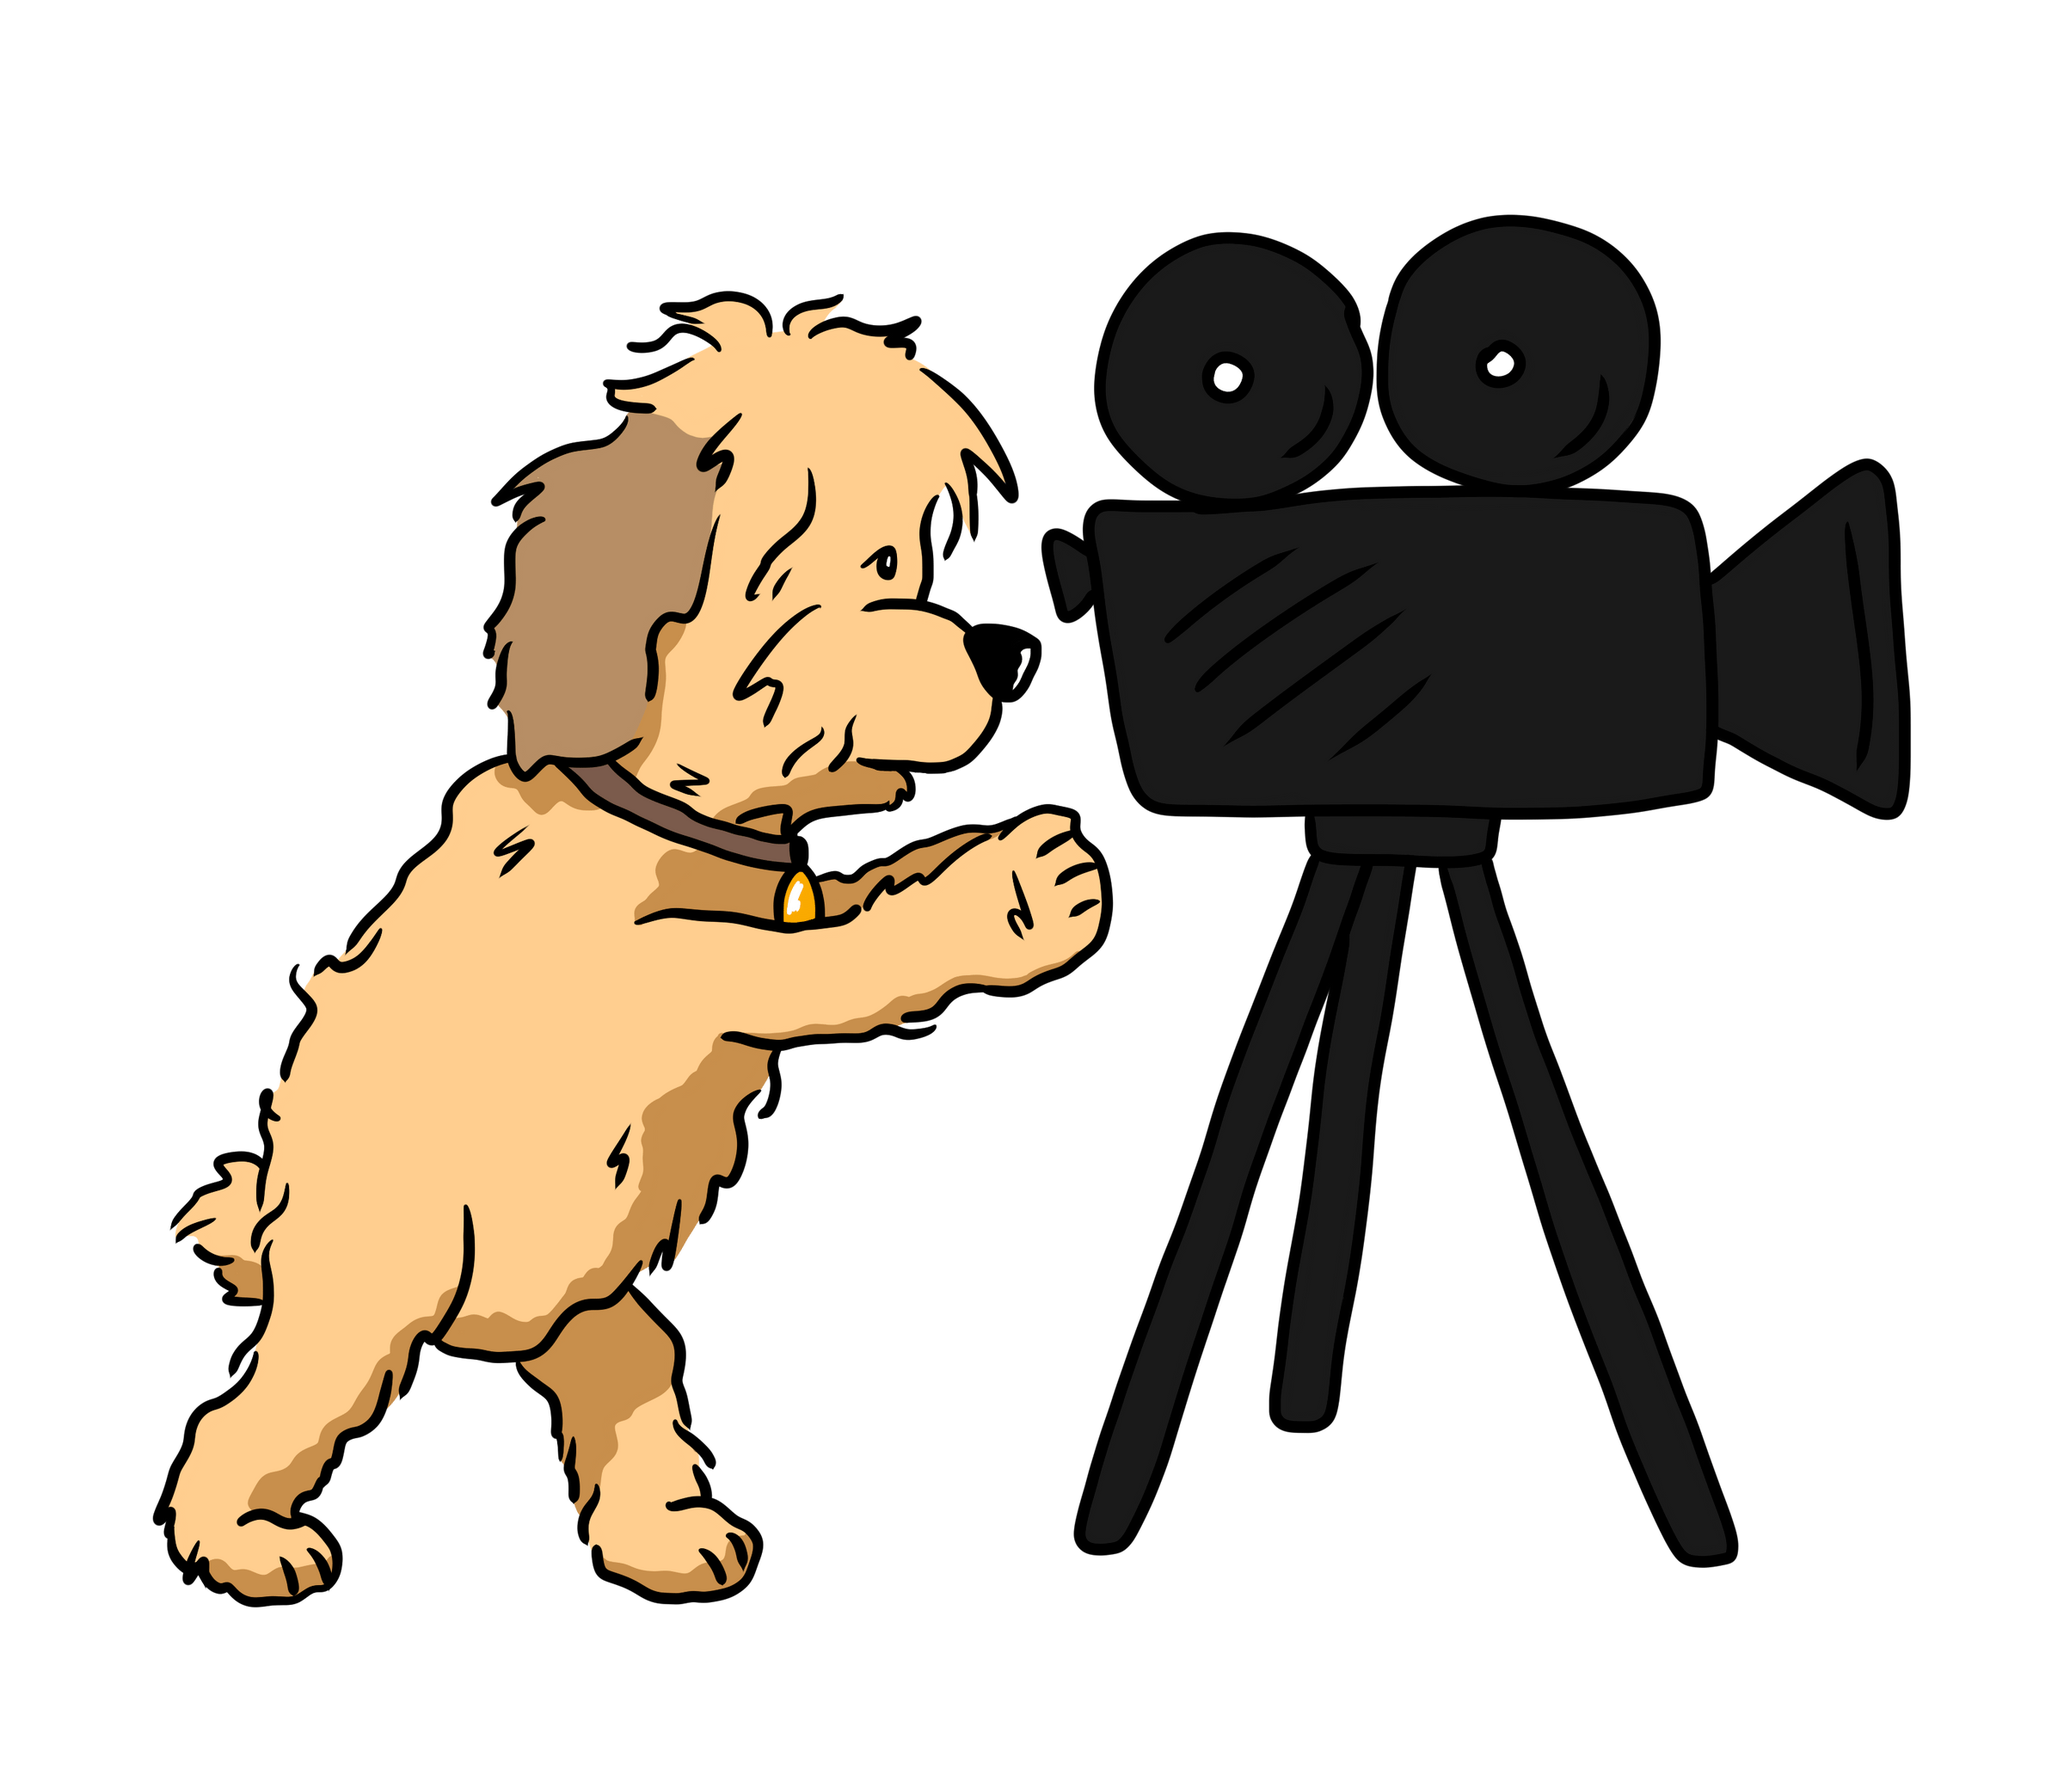
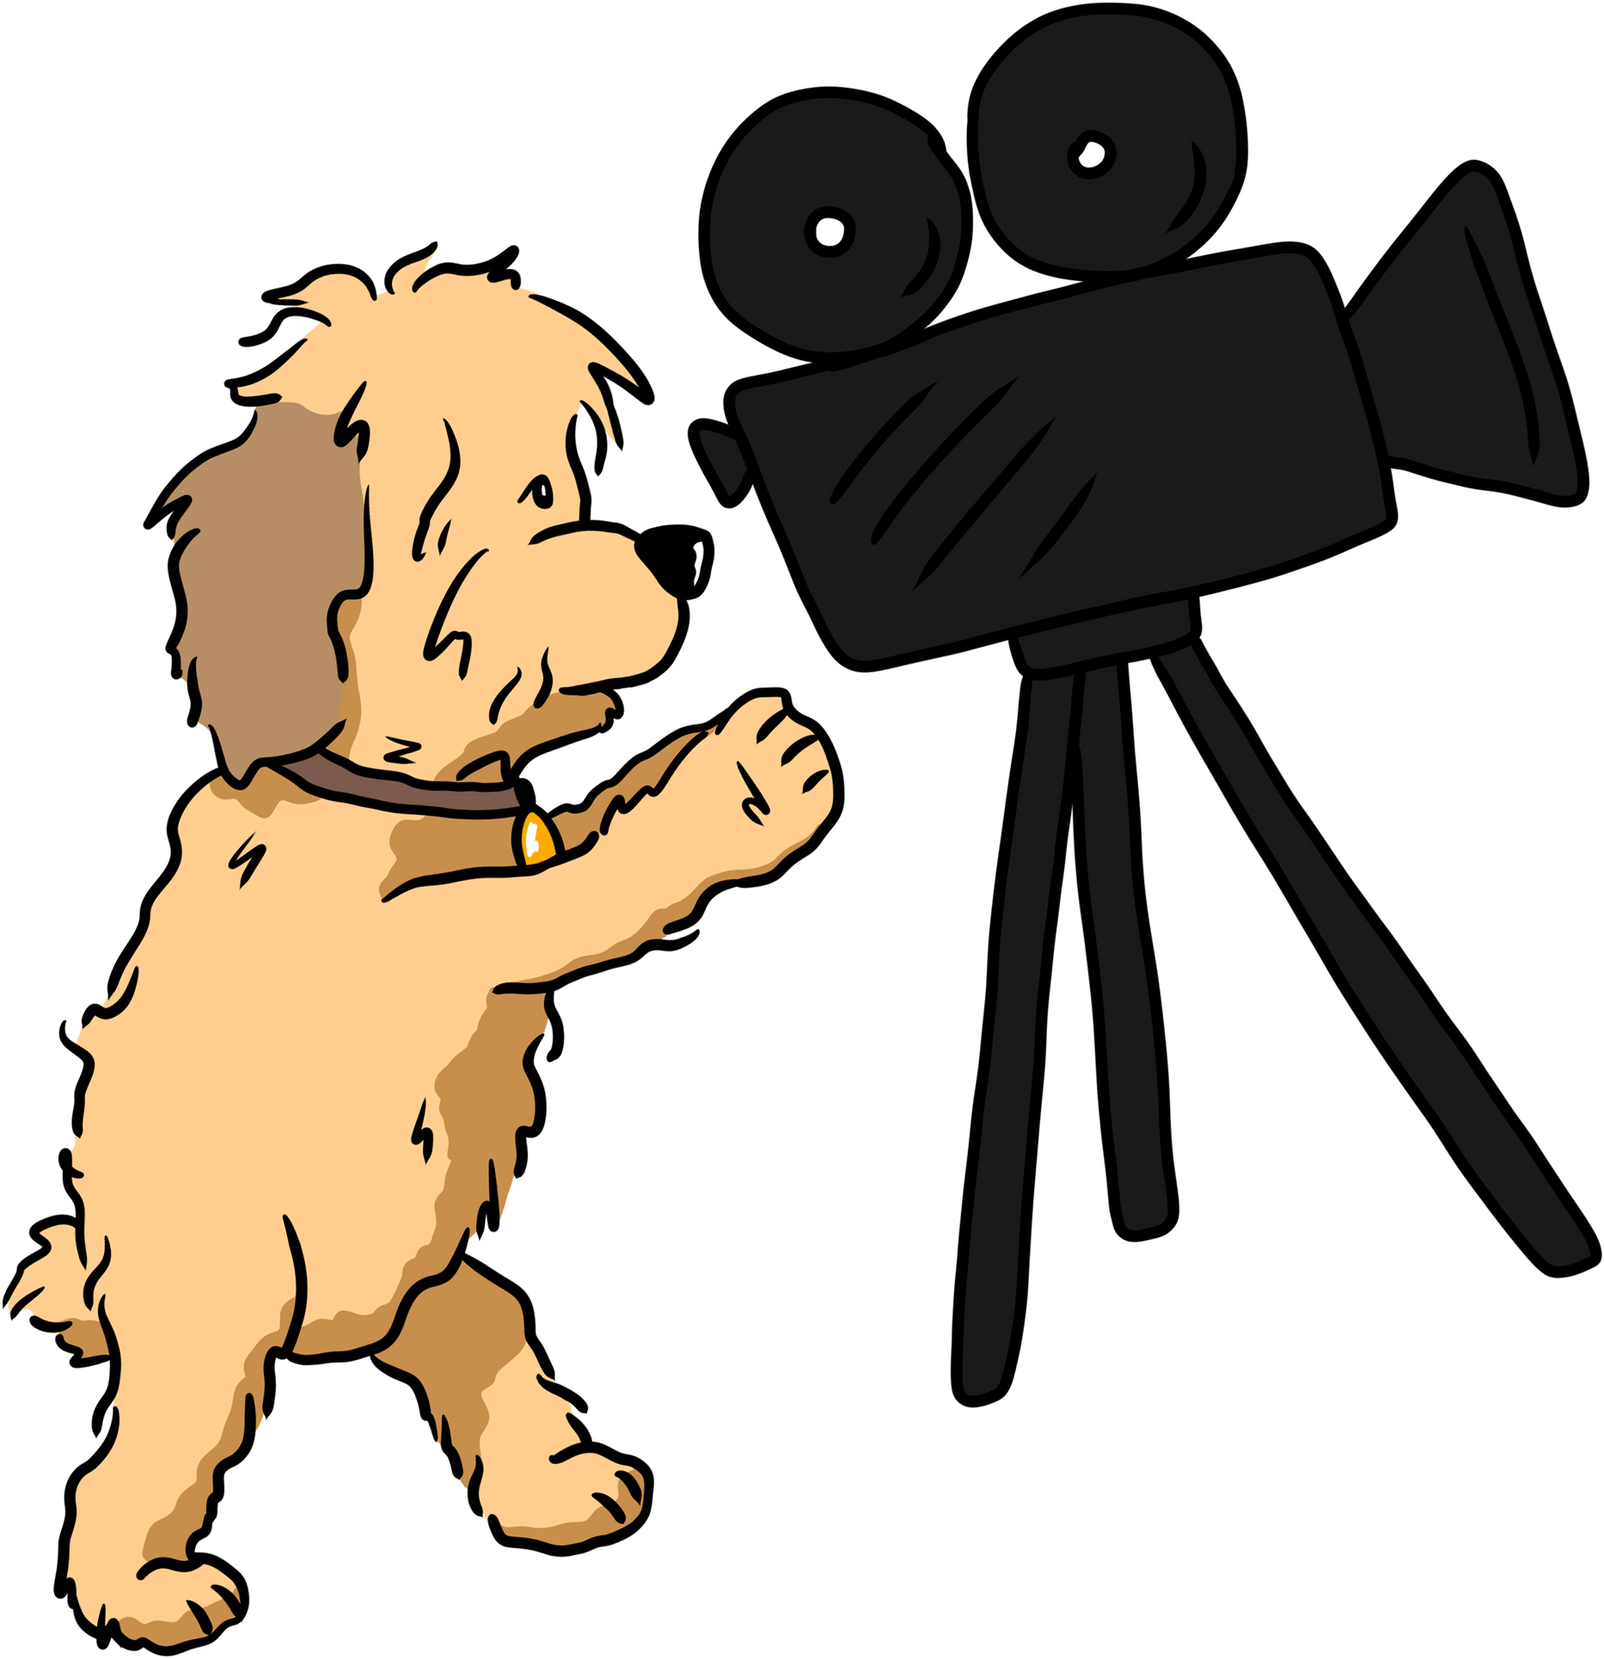
Add files via upload

diff --git a/style.scss b/style.scss
@@ -74,8 +74,10 @@ button {
 .container {
   margin: 0 auto;
   max-width: 1280px;
+  width: 100%;
   border-radius: 5px;
   padding: 0 2rem;
+  text-align: center;
 }
 
 body {
@@ -108,7 +110,15 @@ section {
   background-position: top center;
   width: 100%;
   overflow: hidden;
+  position: relative;
 }
+
+// .main::after {
+//   content: "the BENJI nft";
+//   bottom: 0;
+//   left: 50%;
+//   transform: translateX(-50%);
+// }
 
 .sm,
 ul .extra_sm {
@@ -196,7 +206,6 @@ Main Area
   background-image: url(images/main/main_bg.png);
   height: 650px;
   position: relative;
-
   .container {
     display: flex;
     justify-content: flex-end;
@@ -276,8 +285,8 @@ NFT Area
   position: relative;
   padding-top: 6rem;
   background-image: url(images/nft/nft_bg.png);
-  text-align: center;
   height: 100%;
+  width: 100%;
 
   .nft_top {
     display: flex;
@@ -353,10 +362,9 @@ NFT Area
 
   .cam_dog img {
     position: absolute;
-    width: 14rem;
-    left: 0rem;
-    bottom: 1.4rem;
-    transform: rotate(-13deg);
+    width: 10.5rem;
+    left: 3rem;
+    bottom: 3.4rem;
   }
 }
 
@@ -374,7 +382,6 @@ History Area
   justify-content: center;
   align-items: center;
   gap: 4rem;
-  text-align: center;
 
   h3 {
     font-size: 2.6rem;
@@ -485,7 +492,6 @@ Team Area
   }
 }
 
-
 .team_members .member:nth-child(even) {
   flex-flow: row-reverse;
   text-align: end;
@@ -521,7 +527,7 @@ Utility Area
   p,
   span {
     color: var(--text_clr_main);
-    text-align: center;
+
     line-height: 1.5;
   }
   span {
@@ -657,7 +663,6 @@ Gen2 Area
     color: var(--text_clr_main);
     font-size: 1.75rem;
     line-height: 1.5;
-    text-align: center;
   }
 }
 
@@ -669,7 +674,6 @@ Gen2 Area
   display: flex;
   justify-content: center;
   flex-direction: column;
-  text-align: center;
 
   span {
     color: var(--text_clr_red);
@@ -692,7 +696,6 @@ Gen2 Area
   flex-direction: column;
   justify-content: center;
   align-items: center;
-  text-align: center;
 
   p {
     width: 83%;

diff --git a/style.css b/style.css
@@ -69,8 +69,10 @@ button {
 .container {
   margin: 0 auto;
   max-width: 1280px;
+  width: 100%;
   border-radius: 5px;
   padding: 0 2rem;
+  text-align: center;
 }
 
 body {
@@ -103,6 +105,7 @@ section {
   background-position: top center;
   width: 100%;
   overflow: hidden;
+  position: relative;
 }
 
 .sm,
@@ -300,8 +303,8 @@ NFT Area
   position: relative;
   padding-top: 6rem;
   background-image: url(images/nft/nft_bg.png);
-  text-align: center;
   height: 100%;
+  width: 100%;
 }
 
 .nft .nft_top {
@@ -389,11 +392,9 @@ NFT Area
 
 .nft_bottom .cam_dog img {
   position: absolute;
-  width: 14rem;
-  left: 0rem;
-  bottom: 1.4rem;
-  -webkit-transform: rotate(-13deg);
-          transform: rotate(-13deg);
+  width: 10.5rem;
+  left: 3rem;
+  bottom: 3.4rem;
 }
 
 /*---------------------------------------------------- 
@@ -415,7 +416,6 @@ History Area
       -ms-flex-align: center;
           align-items: center;
   gap: 4rem;
-  text-align: center;
 }
 
 .history_content h3 {
@@ -535,10 +535,6 @@ Team Area
   margin-top: 1rem;
 }
 
-.only_one_p p {
-  margin-top: 10rem;
-}
-
 .team_members .member:nth-child(even) {
   -webkit-box-orient: horizontal;
   -webkit-box-direction: reverse;
@@ -578,7 +574,6 @@ Utility Area
 .utility p,
 .utility span {
   color: var(--text_clr_main);
-  text-align: center;
   line-height: 1.5;
 }
 
@@ -751,7 +746,6 @@ Gen2 Area
   color: var(--text_clr_main);
   font-size: 1.75rem;
   line-height: 1.5;
-  text-align: center;
 }
 
 .gen2_content {
@@ -769,7 +763,6 @@ Gen2 Area
   -webkit-box-direction: normal;
       -ms-flex-direction: column;
           flex-direction: column;
-  text-align: center;
 }
 
 .gen2_top span {
@@ -803,7 +796,6 @@ Gen2 Area
   -webkit-box-align: center;
       -ms-flex-align: center;
           align-items: center;
-  text-align: center;
 }
 
 .gen2_bottom p {

diff --git a/responsive.css b/responsive.css
@@ -122,9 +122,9 @@ Screen - 640px
     display: none;
   }
   .sm {
-    display: block;
+    display: inline-block;
   }
-  section {
+  .nft {
     overflow: visible;
   }
   .benji {
@@ -206,17 +206,18 @@ Screen - 640px
     width: 100%;
   }
   .bottom_text_sm {
+    position: relative;
     margin: 0 auto;
     margin-top: 3rem;
     width: 90%;
   }
   .nft .cam_dog_sm img {
     position: absolute;
-    width: 11.5rem;
-    right: -1rem;
+    width: 9rem;
+    right: 1rem;
     bottom: 3rem;
-    -webkit-transform: rotate(13deg) scale(-1, 1);
-            transform: rotate(13deg) scale(-1, 1);
+    -webkit-transform: scale(-1, 1);
+            transform: scale(-1, 1);
   }
   .nft_bottom {
     position: static;
@@ -432,6 +433,9 @@ Screen - 400px
   }
   .nft p {
     font-size: 1.3rem;
+  }
+  .nft .bottom_text_sm {
+    position: relative;
   }
   .nft .bottom_text_sm h2 {
     font-size: 1.3rem;

diff --git a/responsive.scss b/responsive.scss
@@ -122,9 +122,9 @@ Screen - 640px
   }
 
   .sm {
-    display: block;
+    display: inline-block;
   }
-  section {
+  .nft {
     overflow: visible;
   }
 
@@ -218,6 +218,7 @@ Screen - 640px
     }
   }
   .bottom_text_sm {
+    position: relative;
     margin: 0 auto;
     margin-top: 3rem;
     width: 90%;
@@ -225,10 +226,10 @@ Screen - 640px
 
   .nft .cam_dog_sm img {
     position: absolute;
-    width: 11.5rem;
-    right: -1rem;
+    width: 9rem;
+    right: 1rem;
     bottom: 3rem;
-    transform: rotate(13deg) scale(-1, 1);
+    transform: scale(-1, 1);
   }
 
   .nft_bottom {
@@ -492,6 +493,7 @@ Screen - 400px
     }
 
     .bottom_text_sm {
+      position: relative;
       h2 {
         font-size: 1.3rem;
       }

diff --git a/index.html b/index.html
@@ -200,9 +200,9 @@
               </p>
               <p>It grossed $49 million. ($286 in today's dollars!)</p>
             </div>
-          </div>
-          <div class="cam_dog_sm sm">
-            <img src="images/nft/camdog.png" alt="" />
+            <div class="cam_dog_sm sm">
+              <img src="images/nft/camdog.png" alt="" />
+            </div>
           </div>
         </div>
       </div>
